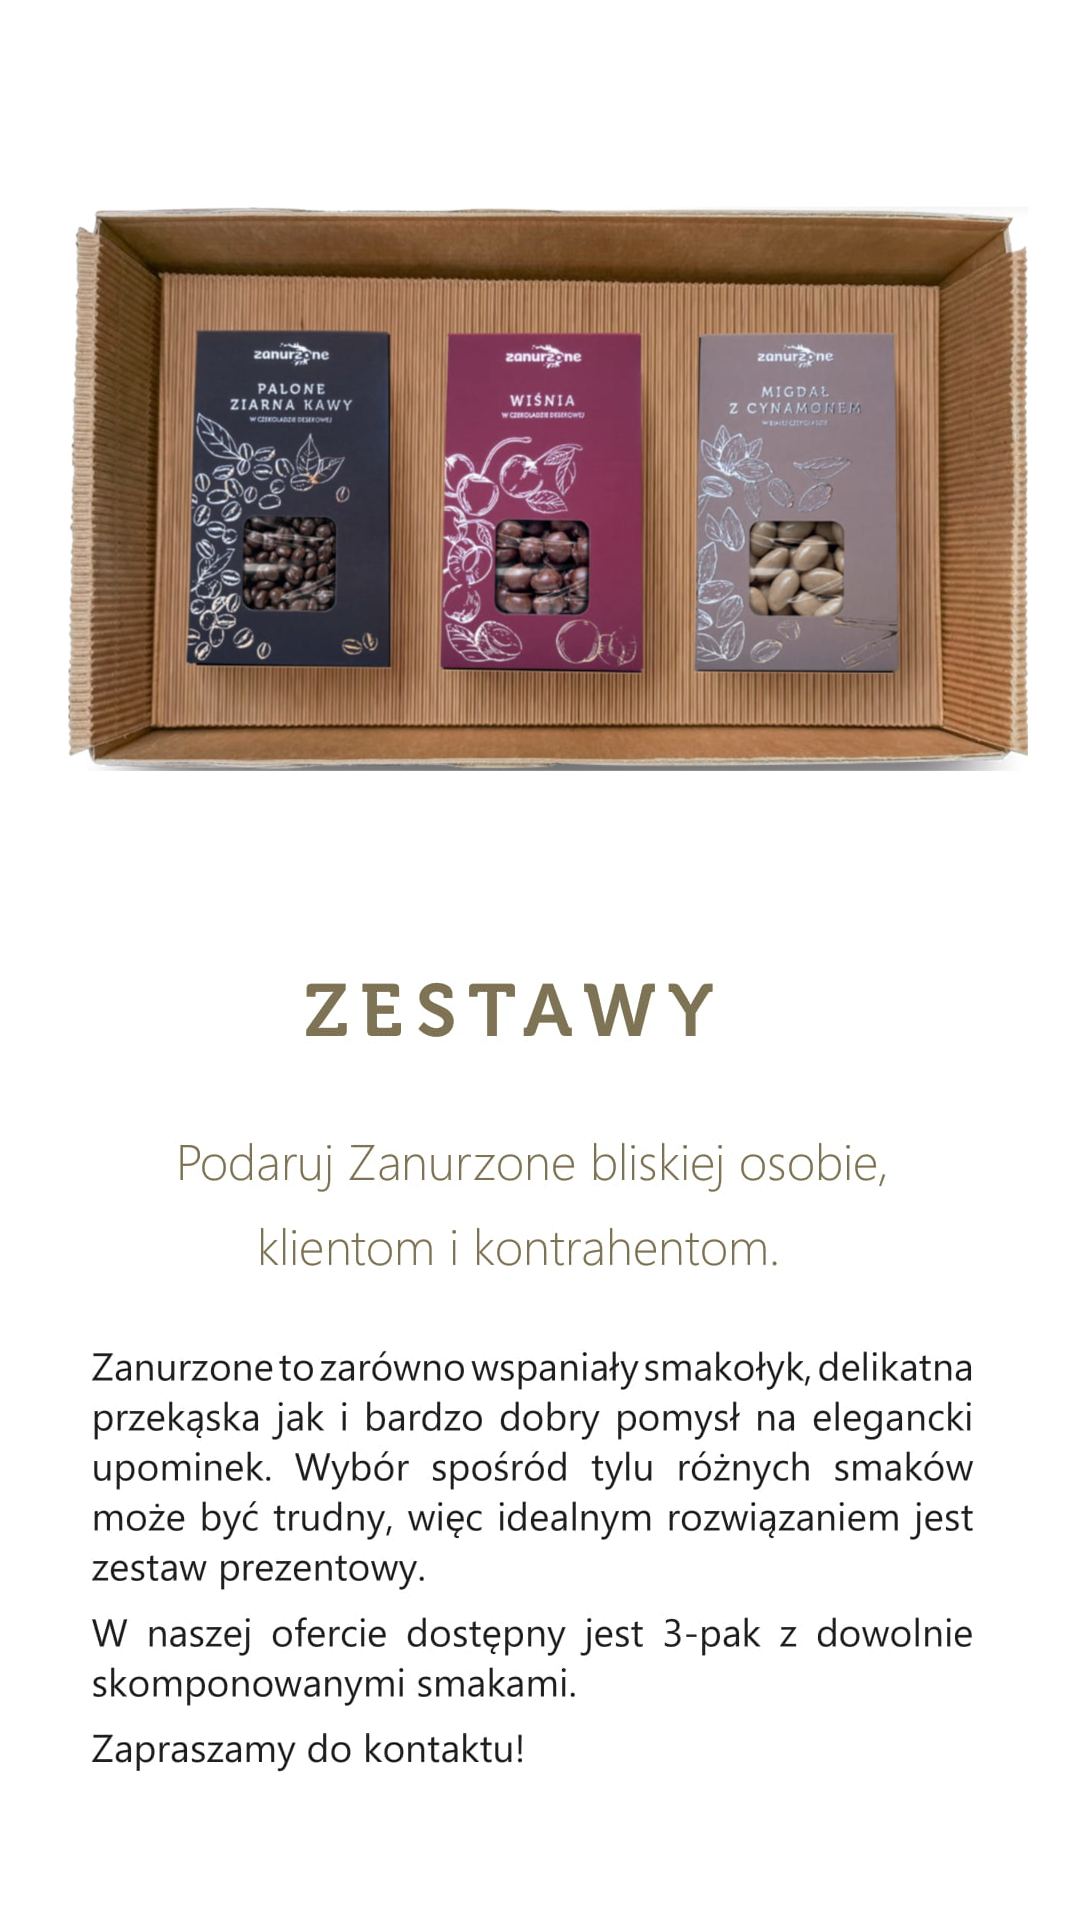
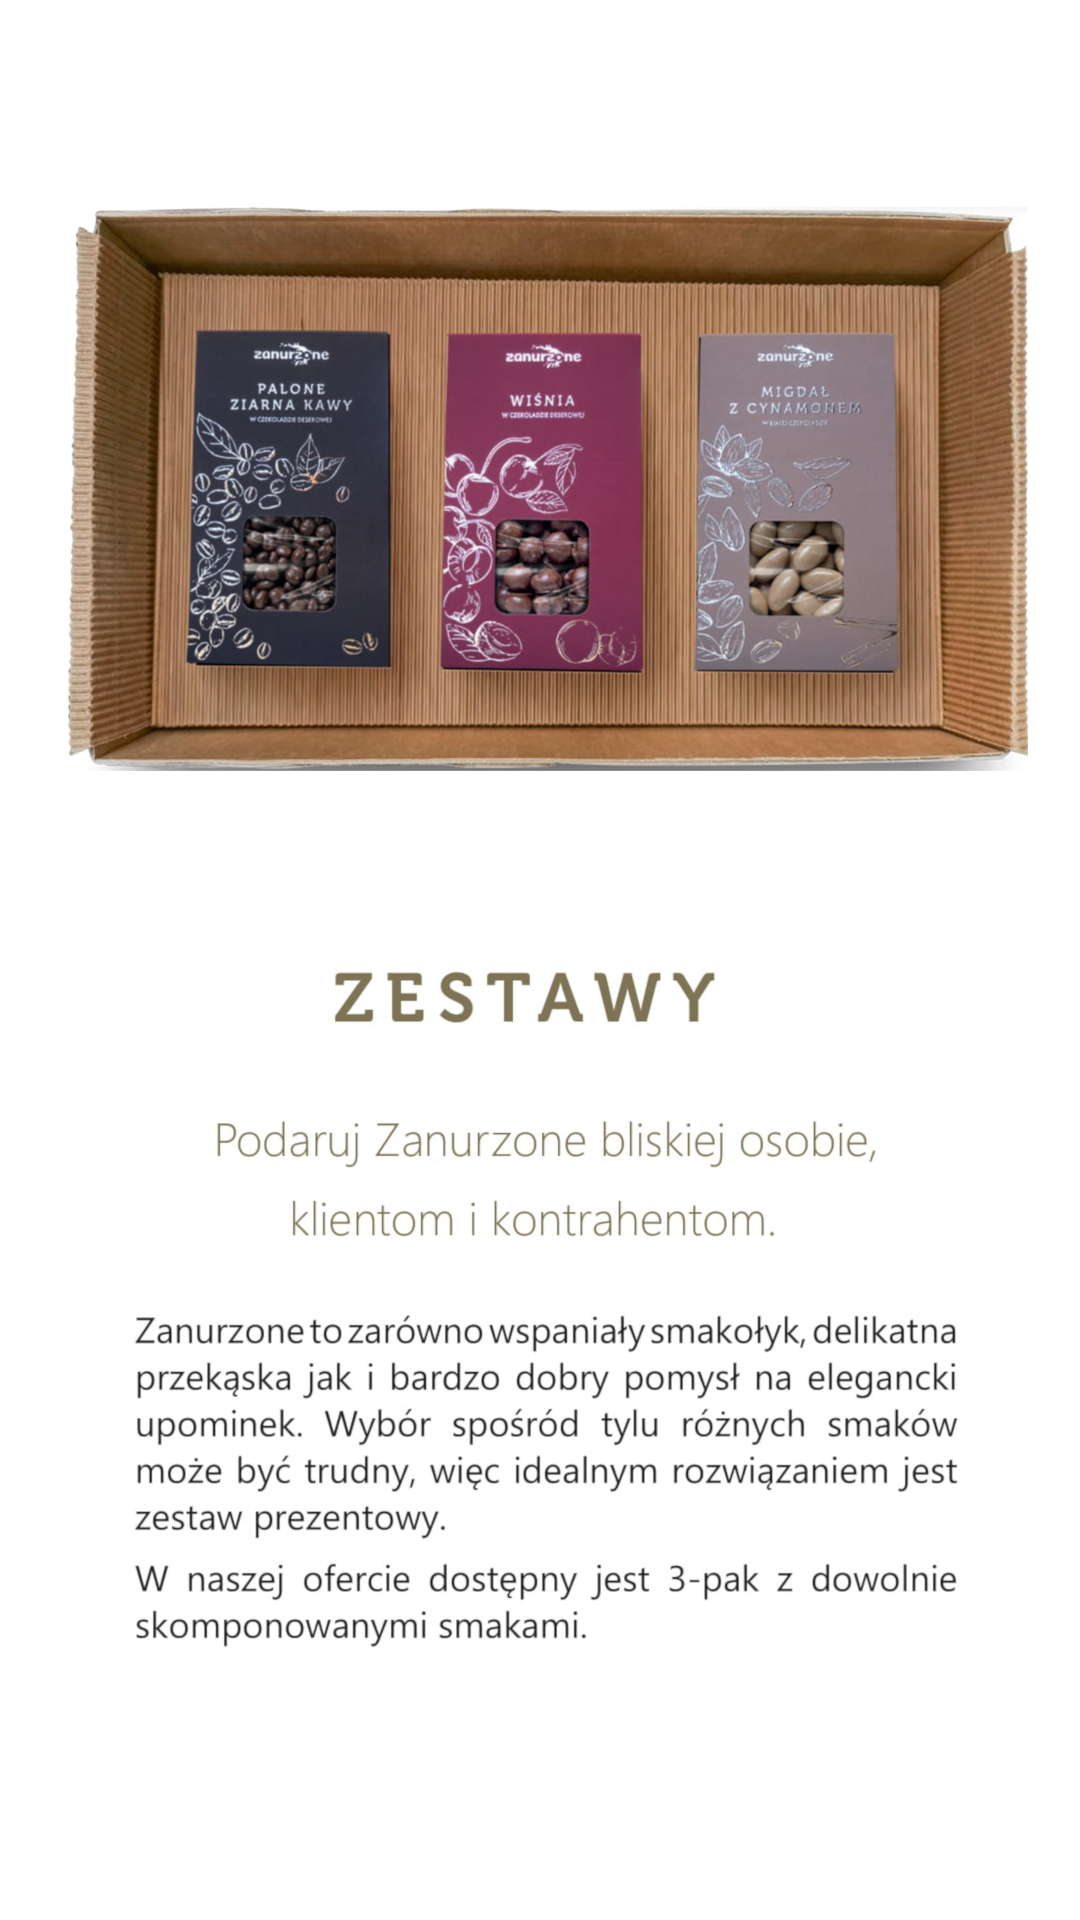
sadfadasfsa

Changed region(s): [[0.0917, 0.6875, 0.8861, 0.9375], [0.1528, 0.5938, 0.825, 0.6562], [0.275, 0.5, 0.6722, 0.5625]]

diff --git a/homepage/static/pliki/css/kontakt.css b/homepage/static/pliki/css/kontakt.css
@@ -230,29 +230,30 @@ html, body {
     }
 
     #wyslij {
-        background-color: #6C757D;
-        border-style: none;
-        padding: 2%;
-        padding-left: 5%;
-        padding-right: 5%;
-        word-wrap: normal;
-        border-radius: .30rem;
-        margin: 2%;
-        color: white;
+
         margin-left: 18%
     }
 
     #resetuj {
-        background-color: #6C757D;
-        border-style: none;
-        padding: 2%;
-        padding-left: 5%;
-        padding-right: 5%;
-        word-wrap: normal;
-        border-radius: .30rem;
-        margin: 2%;
-        color: white;
+
         margin-left: 18%
+    }
+
+    .tytul {
+
+        font-size: 40px;
+        padding-left: 25%;
+        padding-right: 13%;
+
+}
+    .podpis {
+
+        font-size: 12px;
+        color: #27200D;
+        padding-left: 29%;
+        position: absolute;
+        text-align: center;
+
     }
 
 }
